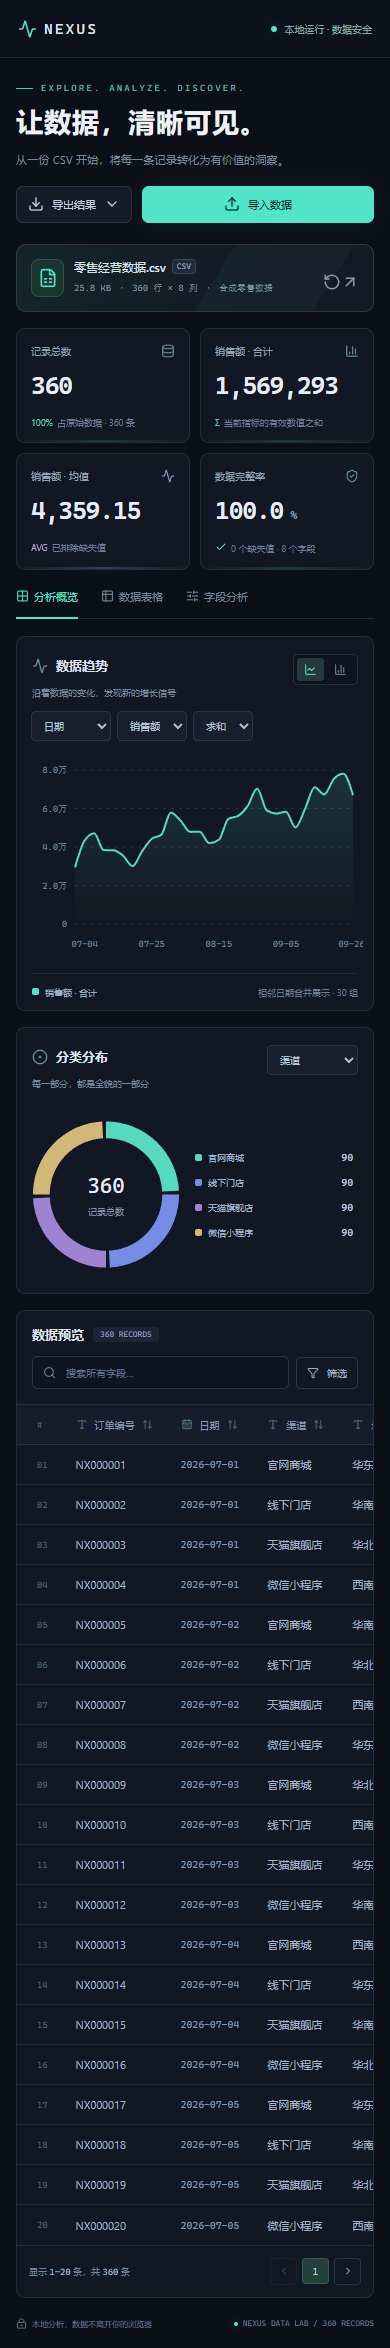
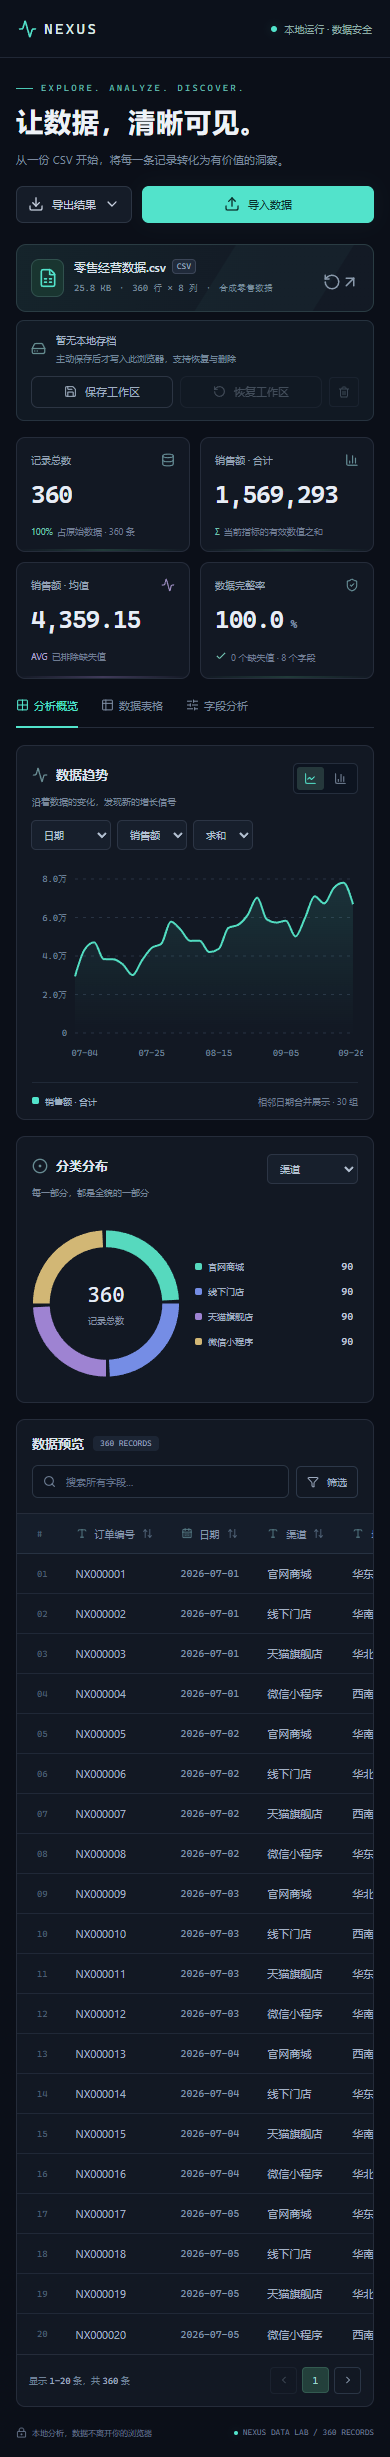
fix: normalize typed chart groups and reject stale running previews

diff --git a/src/workspace.css b/src/workspace.css
@@ -5,3 +5,4 @@
 .boot-screen{min-height:100vh;display:flex;flex-direction:column;align-items:center;justify-content:center;gap:22px;padding:24px;text-align:center}.boot-screen p{color:#8d9eb4;font-size:12px}.error-notice{border-color:#754a46;background:#332421;color:#e5b6a6}
 .workspace-bar{display:flex;justify-content:space-between;gap:12px;align-items:center;flex-wrap:wrap;margin:-8px 0 22px;padding:12px 14px;border:1px solid #26323e;border-radius:8px;background:#111923}.workspace-storage{display:flex;gap:10px;align-items:center;min-width:0;flex:1}.workspace-storage>svg{width:15px;height:15px;color:#668e91}.workspace-storage>div{min-width:0}.workspace-storage span{display:block;font-size:10px;color:#a1b2c5;overflow:hidden;text-overflow:ellipsis;white-space:nowrap;max-width:440px}.workspace-storage small{display:block;color:#718599;font-size:9px;margin-top:5px}.workspace-actions{display:flex;gap:7px;align-items:center}.workspace-actions .button{font-size:10px;padding:6px 9px}.workspace-actions .button svg{width:13px;height:13px}.storage-error{flex-basis:100%;font-size:11px;color:#edb9a6;line-height:1.7}.workspace-actions .icon-button{width:30px;height:30px}@media(max-width:760px){.workspace-storage span{max-width:300px}.workspace-actions{flex-basis:100%}.workspace-actions .button{flex:1}.workspace-bar{margin-bottom:16px}}@media(max-width:520px){.workspace-storage span{max-width:260px}}
 .import-modal{width:640px}.import-modal.has-preview{width:790px}.import-options{display:grid;grid-template-columns:repeat(3,minmax(0,1fr));gap:12px;margin-bottom:18px}.import-options select{font-size:11px}.drop-zone.compact{padding:16px;display:grid;grid-template-columns:34px minmax(0,1fr) auto;column-gap:12px;text-align:left;align-items:center}.drop-zone.compact .upload-icon{width:32px;height:36px;margin:0;grid-row:1/3}.drop-zone.compact strong{overflow:hidden;text-overflow:ellipsis;white-space:nowrap}.drop-zone.compact>span:not(.button){font-size:9px;grid-column:2;margin-top:4px}.drop-zone.compact .button{grid-column:3;grid-row:1/3;margin:0;font-size:10px}.preview-refresh{display:flex;justify-content:space-between;gap:12px;align-items:center;margin-top:13px;color:#bca979;font-size:10px}.preview-title{display:flex;justify-content:space-between;align-items:center;margin-bottom:8px;gap:10px}.import-preview{margin-top:20px}.import-preview>p{font-size:10px;color:#879aaf;line-height:1.7;margin-bottom:12px}.preview-scroll{max-width:100%;overflow:auto;border:1px solid #2d3d50;border-radius:7px;scrollbar-width:thin;scrollbar-color:#344352 #111722}.preview-scroll .data-table th{height:65px;min-width:135px;padding:10px 12px;font:11px inherit}.preview-scroll .data-table th>span{display:block;color:#b6c8d8;margin-bottom:7px}.preview-scroll select{width:100%;font-size:10px}.preview-scroll .data-table td:first-child{font:11px inherit;padding-left:12px;color:#a2b0c4}.import-preview>small{display:block;color:#72869d;font-size:9px;margin-top:9px}.import-footer{display:flex;justify-content:flex-end;gap:10px;margin-top:20px}@media(max-width:520px){.import-options{gap:8px;grid-template-columns:1fr}.import-options .form-label{grid-template-columns:70px minmax(0,1fr);align-items:center;font-size:10px}.import-options select{font-size:10px;min-height:31px}.drop-zone.compact{grid-template-columns:30px minmax(0,1fr);padding:13px;gap:8px}.drop-zone.compact .button{grid-column:1/3;grid-row:3;justify-self:stretch;margin-top:6px}.drop-zone.compact>span:not(.button){font-size:8px}.import-footer .button{flex:1}.preview-title h3{font-size:12px}.preview-title .tag{font-size:8px}.preview-refresh{align-items:flex-start}.preview-refresh .button{flex-shrink:0}}
+.drop-zone .button{display:inline-flex;align-items:center;justify-content:center;gap:7px}.drop-zone .button svg{width:16px;height:16px}

diff --git a/src/data.test.ts b/src/data.test.ts
@@ -120,6 +120,19 @@ describe('shared query pipeline', () => {
 })
 
 describe('chart aggregation', () => {
+  it('combines equivalent numeric and date dimensions while preserving text identifiers and raw exports', () => {
+    const rows = [{ x: '1', y: '10' }, { x: '1.00', y: '20' }, { x: '2', y: '5' }]
+    expect(aggregateRows(rows, 'x', 'y', 'sum', 30, { type: 'number' })).toEqual([{ name: '1', value: 30, count: 2 }, { name: '2', value: 5, count: 1 }])
+    expect(aggregateRows(rows, 'x', '__count__', 'count', 5, { type: 'number', order: 'value' })[0]).toEqual({ name: '1', value: 2, count: 2 })
+    expect(aggregateRows(rows, 'x', 'y', 'mean', 30, { type: 'number' })[0].value).toBe(15)
+    expect(aggregateRows(rows, 'x', 'y', 'sum', 30, { type: 'text' })).toHaveLength(3)
+    const d = parseCsv('日期,金额\n1/2/2026,10\n01/02/2026,20\n2/2/2026,5', 'dates.csv', { dateFormat: 'dmy-slash' })
+    const options = { type: 'date', dateFormat: 'dmy-slash' } as const
+    expect(aggregateRows(d.rows, 'c0', 'c1', 'sum', 30, options)).toEqual([{ name: '1/2/2026', value: 30, count: 2 }, { name: '2/2/2026', value: 5, count: 1 }])
+    expect(aggregateRows(d.rows, 'c0', 'c1', 'mean', 30, options)[0].value).toBe(15)
+    expect(aggregateRows(d.rows, 'c0', '__count__', 'count', 30, options)[0].value).toBe(2)
+    expect(JSON.parse(serializeJson(d.columns, d.rows))[1]['日期']).toBe('01/02/2026')
+  })
   it('orders numeric trend dimensions by X while distributions retain value order', () => {
     const data = [{ x: '1', y: '100' }, { x: '2', y: '1' }, { x: '3', y: '50' }]
     expect(aggregateRows(data, 'x', 'y', 'sum', 30, { type: 'number' }).map(p => p.name)).toEqual(['1', '2', '3'])

diff --git a/src/analysis.ts b/src/analysis.ts
@@ -66,8 +66,9 @@ export class AnalysisEngine {
     const trendKey = JSON.stringify(['trend', dimension, metric, mode])
     const distributionKey = JSON.stringify(['distribution', category])
     const dimensionColumn = this.dataset!.columns.find(c => c.key === dimension)
+    const categoryColumn = this.dataset!.columns.find(c => c.key === category)
     if (!this.charts.has(trendKey)) this.charts.set(trendKey, aggregateRows(cache.rows, dimension, metric, mode, 30, { type: dimensionColumn?.type, dateFormat: dimensionColumn?.dateFormat }))
-    if (!this.charts.has(distributionKey)) this.charts.set(distributionKey, aggregateRows(cache.rows, category, '__count__', 'count', 5, { order: 'value' }))
+    if (!this.charts.has(distributionKey)) this.charts.set(distributionKey, aggregateRows(cache.rows, category, '__count__', 'count', 5, { order: 'value', type: categoryColumn?.type, dateFormat: categoryColumn?.dateFormat }))
     const result = { version: this.version, count: rows.length, page, pages, rows: rows.slice((page - 1) * 20, page * 20), profiles: cache.profiles,
       trend: this.charts.get(trendKey)!, distribution: this.charts.get(distributionKey)!, missing: cache.missing, complete: cache.complete }
     if (this.charts.size > 24) this.charts.clear()

diff --git a/src/data.ts b/src/data.ts
@@ -173,11 +173,12 @@ export function sortRows(source: Row[], columns: Column[], sort: Sort): Row[] {
 
 export function aggregateRows(rows: Row[], dimension: string, metric: string, mode: AggregateMode, limit = 30, options: DimensionOptions = {}): Point[] {
   type Group = { name: string; sum: number; valid: number; count: number; missing: boolean }
-  const groups = new Map<string | null, Group>()
+  const groups = new Map<string | number | null, Group>()
   const countMode = mode === 'count' || metric === '__count__'
   for (const row of rows) {
-    const key = row[dimension]?.trim() || null
-    const group = groups.get(key) ?? { name: key ?? '', sum: 0, valid: 0, count: 0, missing: key === null }
+    const raw = row[dimension]?.trim() || ''
+    const key = !raw ? null : options.type === 'number' ? numberValue(raw) ?? raw : options.type === 'date' ? normalizeDate(raw, options.dateFormat) ?? raw : raw
+    const group = groups.get(key) ?? { name: raw, sum: 0, valid: 0, count: 0, missing: key === null }
     group.count++
     const n = numberValue(row[metric] ?? '')
     if (n !== null) { group.sum += n; group.valid++ }

diff --git a/src/workspace.test.ts b/src/workspace.test.ts
@@ -40,4 +40,15 @@ describe('explicit browser-local workspace', () => {
   it('reports unavailable storage rather than pretending to save', async () => {
     await expect(saveWorkspace(record(), undefined)).rejects.toThrow(/存储|IndexedDB|存档/)
   })
+  it('reports structured-clone failure and preserves the previous stored snapshot', async () => {
+    const factory = new IDBFactory()
+    const saved = record()
+    await saveWorkspace(saved, factory)
+    const invalid = record()
+    invalid.dataset.name = 'should-not-save.csv'
+    Object.assign(invalid.dataset.rows[0], { unsupported: () => 1 })
+    await expect(saveWorkspace(invalid, factory)).rejects.toThrow()
+    expect(await readWorkspace(factory)).toEqual(saved)
+    expect((await workspaceInfo(factory))?.name).toBe('saved.csv')
+  })
 })

diff --git a/README.md b/README.md
@@ -4,11 +4,14 @@
 
 ![工作台预览](docs/screenshot.png)
 
-在浏览器本地完成数据导入、探索、可视化与导出。无需注册、后端、数据库或 API Key。
+在浏览器本地完成数据导入、探索、可视化与导出。无需注册、后端、数据库配置或 API Key。
 
 ## 功能
 
-- **导入数据**：拖放 / 选择 CSV、TSV；自动识别逗号、制表符、分号与竖线；UTF-8 / GB18030 编码可选。
+- **导入数据**：拖放 / 选择 CSV、TSV；自动或手动选择逗号、制表符、分号与竖线；UTF-8 / GB18030 编码可选。先预览再确认，支持日期格式与逐列类型覆盖。
+- **后台计算**：常驻 Web Worker 保管原始数据，页面只接收 20 条分页记录与聚合结果；150ms 搜索延迟、查询缓存和过期响应隔离。
+- **本地工作区**：主动保存数据与搜索、筛选、排序、图表、视图和页码到 IndexedDB；刷新后手动恢复，支持覆盖保存和删除。
+- **一键启动**：Windows 双击 `start.cmd`，自动检查依赖、构建并打开 Edge。
 - **即时分析**：记录数、指标总计、均值、完整率；指标与图表随筛选同步更新。
 - **交互图表**：折线 / 柱状切换；自选维度、数值指标与求和 / 均值 / 计数；分类环图。
 - **数据探索**：全字段搜索、多个条件组合筛选、数值 / 日期 / 文本排序、分页表格。
@@ -21,6 +24,12 @@
 
 需要 Node.js 24 LTS 和 npm。
 
+**Windows 推荐：** 下载或克隆仓库后，双击根目录的 `start.cmd`。首次安装锁定依赖并构建，后续按依赖与源码指纹复用。服务就绪后自动打开 Edge，默认地址为 `http://127.0.0.1:4173/`。保持启动窗口开启，按 `Ctrl+C` 停止。Edge 不存在时会打印地址供手动打开。
+
+命令行也可执行 `npm.cmd start`。指定其他端口：PowerShell 中先执行 `$env:NEXUS_PORT='4176'`，再启动。已有最新服务会复用；若运行中实例对应旧源码或依赖，会提示先在原窗口按 `Ctrl+C` 停止，再重新启动以构建新版本；其他程序占用同一端口时明确报错。
+
+开发模式：
+
 ```bash
 git clone https://github.com/TsingLiu1024/nexus-data-lab.git
 cd nexus-data-lab
@@ -31,7 +40,8 @@ npm run dev
 访问终端显示的本地地址。私有仓库需要先登录有权限的 GitHub 账号。
 
 ```bash
-npm test                 # 数据处理单元测试
+npm test                 # 数据引擎与本地存档测试
+npm run test:launcher    # 启动器服务识别与源码指纹测试
 npm run build            # TypeScript 检查 + 生产构建
 npx playwright install chromium
 npm run test:e2e         # 真实浏览器操作测试
@@ -42,24 +52,27 @@ Windows 默认使用系统 Microsoft Edge；其他系统使用 Playwright Chromi
 
 ## 使用方法
 
-1. 打开页面，先用演示数据体验；或点击「导入数据」，选择编码并上传本地分隔文本。
-2. 在「分析概览」中选择图表维度、指标与聚合方式；在表格上方搜索或添加条件筛选。
-3. 点击列标题排序；「字段分析」查看当前结果的完整度和分布统计。
-4. 点击「导出结果」，下载 CSV 或 JSON。导出包含全部匹配记录，不局限于当前页。
+1. 打开页面，先用演示数据体验；或点击「导入数据」，设置编码、分隔符与日期格式，选择本地文件。
+2. 查看前 5 条预览记录，可逐列指定自动 / 文本 / 数值 / 日期类型。修改解析设置后点「更新预览」，最后点「确认导入」。取消或转换失败均保留旧数据。
+3. 在「分析概览」中选择图表维度、指标与聚合方式；在表格上方搜索或添加条件筛选。
+4. 点击列标题排序；「字段分析」查看当前结果的完整度和分布统计。
+5. 点击「导出结果」，下载 CSV 或 JSON。导出包含全部匹配记录，不局限于当前页。
+6. 点击「保存工作区」后，数据和设置才会写入此浏览器。下次刷新后点「恢复工作区」继续，或点垃圾桶图标删除存档。
 
 ## 数据规则与边界
 
 - 首行作为表头。重复表头自动分配不冲突的名称，空表头自动命名；所有单元格保留原始文本。
-- 最多 10 MiB、50,000 条数据、100 列。超限拒绝导入，避免截断后被误当作完整数据。
-- 日期推断只接受有效的 `YYYY-MM-DD`。带前导零的编号与超出 JavaScript 安全整数范围的长整数保留为文本，不参与数值统计。
-- 数值支持小数、负数、科学计数法与标准千位分隔。混合文本的列视为文本。
+- 最多 10 MiB 原始文件字节、50,000 条数据、100 列；中文 GB18030 解码后的 UTF-8 大小不再用于判断源文件上限。超限拒绝导入，避免截断后被误当作完整数据。
+- 日期默认识别有效的 `YYYY-MM-DD`，也可指定 `YYYY/MM/DD`、`DD/MM/YYYY`、`MM/DD/YYYY`；显示和导出保留原始文本，排序和图表使用实际日期。带前导零的编号与超出 JavaScript 安全整数范围的长整数保留为文本，不参与数值统计；手动指定数值类型时，会校验所有非空值，无法安全转换则阻止导入。
+- 数值支持小数、负数、科学计数法与标准千位分隔。混合文本的列默认视为文本。数值列的「等于」按数值比较（`1` 与 `1.00` 相等），文本编号保留文本语义。
 - 空白单元格视为缺失；无有效观测值的分组显示为空，均值不将缺失值计为零。缺失值排序始终在末尾；日期图中的缺失日期单独分组。
 - 概览数值最多显示两位小数，表格数值最多六位；原始文本可在单元格悬停或 JSON 导出中查看。数值计算使用 JavaScript 浮点数。
 - 短行补空并提示，额外字段和错误引号拒绝导入，旧数据保留。
-- 趋势图最多展示 30 组；更多日期按相邻时间段合并，分类按指标排序并合并「其他」。均值合并使用有效数值数量加权。
+- 趋势图最多展示 30 组；日期按时间、数值维度按横轴数值排序，超限按相邻区间合并；文本分类按指标排序并合并「其他」。均值合并使用有效数值数量加权。
 - 环图以记录数展示分类分布，最多 5 组；超过的类别合并到「其他」。
 - CSV 为避免电子表格执行公式，会给以 `= + - @ Tab CR` 开头的字段添加单引号；需要完全原始值时选择 JSON。
-- 导入数据仅在当前页面内存中，刷新即清空。应用代码不会上传数据、写入 localStorage、发送遥测或请求远程字体。
+- 未主动保存的数据仅在当前页面 Worker 内存中，刷新即清空；已保存工作区位于 IndexedDB，删除存档不影响当前分析。应用不会上传数据、写入 localStorage、发送遥测或请求远程字体。
+- 本地存档按浏览器与来源隔离。`localhost:5173` 开发模式、`127.0.0.1:4173` 启动器、其他端口和隐私窗口互不共享存档。需要持续恢复时使用固定启动器地址。
 
 ## 部署
 
@@ -67,7 +80,7 @@ Windows 默认使用系统 Microsoft Edge；其他系统使用 Playwright Chromi
 
 仓库包含两条 GitHub Actions 工作流：
 
-- **Quality checks**：push / PR 自动运行单元测试、类型检查、构建和 Chromium 测试。
+- **Quality checks**：push / PR 自动运行单元测试、启动器测试、类型检查、构建和 Chromium 测试（含 50,000 行主线程响应性检查）。
 - **Deploy GitHub Pages**：手动运行。先在仓库 Settings → Pages 中选择 GitHub Actions；仓库的可见性与 GitHub 套餐需支持 Pages。工作流不会自动改变仓库可见性。
 
 ## 技术结构
@@ -76,17 +89,26 @@ Windows 默认使用系统 Microsoft Edge；其他系统使用 Playwright Chromi
 src/
   data.ts               CSV 解析、类型推断、筛选排序、聚合与导出
   data.test.ts          数据边界和计算正确性测试
+  analysis.ts           查询缓存、分页与图表分析引擎
+  data.worker.ts        原始数据、导入、导出与本地存档线程
+  worker-client.ts      带请求 ID 的 Worker 通信
+  use-analysis.ts       异步状态、搜索延迟与过期结果处理
+  workspace.ts          IndexedDB 事务与存档校验
   demo.ts               确定性的合成演示数据
   App.tsx               工作台状态和视图联动
   components/           图表、表格、导入对话框、字段画像
   styles.css            主题和响应式界面
   workspace.css         表格、表单和对话框
-tests/workspace.spec.ts 浏览器操作测试
+tests/                  浏览器操作、配置导入、存档与性能测试
+scripts/start.mjs       跨平台启动器与源码指纹
+start.cmd               Windows 一键入口
 ```
 
 React · TypeScript · Vite · Papa Parse · Recharts · Lucide · Vitest · Playwright。
 
-验证记录见 [docs/verification.md](docs/verification.md)。
+![导入预览与配置](docs/import-preview.png)
+
+v1.1 验证记录见 [docs/optimization-verification.md](docs/optimization-verification.md)；[初版验证记录](docs/verification.md) 保留供历史参考。
 
 解析与导出行为参考 [Papa Parse 官方文档](https://www.papaparse.com/docs)。构建配置参考 [Vite 官方指南](https://vite.dev/guide/)。
 

diff --git a/docs/optimization-plan.md b/docs/optimization-plan.md
@@ -13,28 +13,28 @@
 - 50,000-row input must not block main-thread typing; fixed startup origin preserves storage.
 
 ## Task 1 — Correctness
-- [ ] Add failing regressions in src/data.test.ts for typed equality, numeric axes, original-byte size.
-- [ ] Implement comparison and aggregation options in src/data.ts; run suite and commit.
+- [x] Add failing regressions in src/data.test.ts for typed equality, numeric axes, original-byte size.
+- [x] Implement comparison and aggregation options in src/data.ts; run suite and commit.
 
 ## Task 2 — Worker and performance
-- [ ] Test pagination, query cache, sorted export and staged-import atomicity in src/analysis.test.ts.
-- [ ] Implement src/analysis.ts, data.worker.ts, worker-client.ts; raw data stays in worker.
-- [ ] Update App, Charts and DataTable for asynchronous paginated analytics; debounce 150ms and ignore stale results.
-- [ ] Verify real worker and large-input responsiveness in browser.
+- [x] Test pagination, query cache, sorted export and staged-import atomicity in src/analysis.test.ts.
+- [x] Implement src/analysis.ts, data.worker.ts, worker-client.ts; raw data stays in worker.
+- [x] Update App, Charts and DataTable for asynchronous paginated analytics; debounce 150ms and ignore stale results.
+- [x] Verify real worker and large-input responsiveness in browser.
 
 ## Task 3 — Startup
-- [ ] Test launcher identity, occupied port and no-browser production service.
-- [ ] Implement start.cmd and scripts/start.mjs with dependency/build fingerprints, service reuse and Edge opening.
+- [x] Test launcher identity, occupied port and no-browser production service.
+- [x] Implement start.cmd and scripts/start.mjs with dependency/build fingerprints, service reuse and Edge opening.
 
 ## Task 4 — Workspace
-- [ ] Test IndexedDB roundtrip, delete, transaction failure and saved-state validation.
-- [ ] Implement src/workspace.ts and worker save/restore/delete; add UI and cross-refresh browser tests.
+- [x] Test IndexedDB roundtrip, delete, transaction failure and saved-state validation.
+- [x] Implement src/workspace.ts and worker save/restore/delete; add UI and cross-refresh browser tests.
 
 ## Task 5 — Configured import
-- [ ] Test delimiter/date formats/types and invalid conversions before implementation.
-- [ ] Implement staged preview, config refresh, type overrides and confirmation in ImportDialog.
-- [ ] Update previous browser imports and add configured-import regressions.
+- [x] Test delimiter/date formats/types and invalid conversions before implementation.
+- [x] Implement staged preview, config refresh, type overrides and confirmation in ImportDialog.
+- [x] Update previous browser imports and add configured-import regressions.
 
 ## Task 6 — Delivery
-- [ ] Complete unit/browser suites, production build, audit, screenshots and independent read-only review.
-- [ ] Update README/verification, archive source, push main and verify GitHub CI.
+- [x] Complete unit/browser suites, production build, audit, screenshots and independent read-only review.
+Delivery integration: README and verification updated; source archive follows the final commit. The pushed SHA and cloud test result are verified through GitHub Actions.

diff --git a/docs/optimization-verification.md b/docs/optimization-verification.md
@@ -1,0 +1,35 @@
+# v1.1 优化验证记录
+
+2026-10-17。Windows / Node.js 24.15.0 / Edge；GitHub CI 使用 Ubuntu / Chromium。
+
+## 优化交付
+
+1. 数值列按数值比较等于，文本编号维持文本语义。
+2. 数值趋势横轴排序与相邻区间合并；等价数值、日期按实际值分组，文本标识符不合并。
+3. GB18030 文件按原始字节执行 10 MiB 限制，保持 50,000 行和 100 列上限。
+4. 常驻 Worker 持有原始数据，分页只返回 20 行；缓存筛选、画像、排序及图表；150ms 搜索延迟；隔离过期响应。
+5. Windows 一键启动，锁定依赖及源码指纹检查，服务就绪后打开 Edge。已有最新服务复用；运行中实例过期时明确要求先停止并重启，避免打开旧构建或擅自终止已有服务。
+6. 主动保存、恢复与删除 IndexedDB 存档，保留数据和分析状态；数据与元信息同一事务写入。存储不可用、类型无效或克隆失败明确报告，原存档保留。
+7. 导入预览、分隔符、日期格式和逐列类型设置；更新解析配置必须重做预览，确认或取消行为经过浏览器验证。
+
+## 验证结果
+
+- 数据/分析引擎/存档：40 项单元测试通过。
+- 启动器：2 项测试通过，包含源码变化后禁止复用旧构建。
+- 浏览器：13 项操作测试通过，覆盖此前功能、配置导入、取消/失败保护、存档跨刷新及大文件。
+- 50,000 行浏览器检查：真实 Worker；四个并行浏览器任务下，计算阶段 25ms 计时器运行 92 次，观察到最大主线程任务 201ms，低于回归阈值 1000ms。此结果针对本机及该数据样本，不是所有设备的性能保证。
+- TypeScript 与生产构建通过；依赖审计 0 个已知漏洞。
+- 最新锁文件 `npm ci --dry-run --ignore-scripts` 通过。
+- 生产预览：无运行时异常、无外部数据请求；桌面、390px 手机及配置导入截图已检查。
+- 启动器首次安装、生产构建、已有服务复用与运行中过期提示均实测。
+
+## 独立复核
+
+独立只读复核报告两项 P2，均通过先失败后通过的回归验证修复：
+
+- 相同日期/数值的不同文本表示创建重复图表分组：使用列类型规范化内部键，展示与导出仍保留原值。
+- 已有服务绕过更新检查：复用前检查依赖、源码与构建状态，过期实例提示停止并重启。
+
+复核没有其余待处理问题。恶意修改 IndexedDB、多标签冲突解决、任意精度小数和数值轴等比例间距不在本轮范围。数值计算仍使用 JavaScript 浮点数；环图以记录数展示分布。
+
+GitHub 上最新提交的云端结果以仓库 Actions 为准。

diff --git a/docs/plan.md b/docs/plan.md
@@ -1,5 +1,6 @@
 # NEXUS Data Lab Implementation Plan
 
+> 初版历史记录。v1.1 优化方案与执行状态见 optimization-design.md 和 optimization-plan.md。
 Goal: Build, verify and push a complete Chinese CSV analytics workspace with a dark technology theme.
 Architecture: In-memory immutable datasets, pure data operations, shared filtered rows for all consumers, React views and Recharts.
 Spec: docs/design.md

diff --git a/docs/design.md b/docs/design.md
@@ -1,5 +1,6 @@
 # NEXUS Data Lab — 设计
 
+> 初版历史记录。v1.1 优化方案与执行状态见 optimization-design.md 和 optimization-plan.md。
 2026-10-17。用户选择 CSV 数据分析台，深色科技风，要求自动完成并推送 GitHub。
 
 ## 目标
